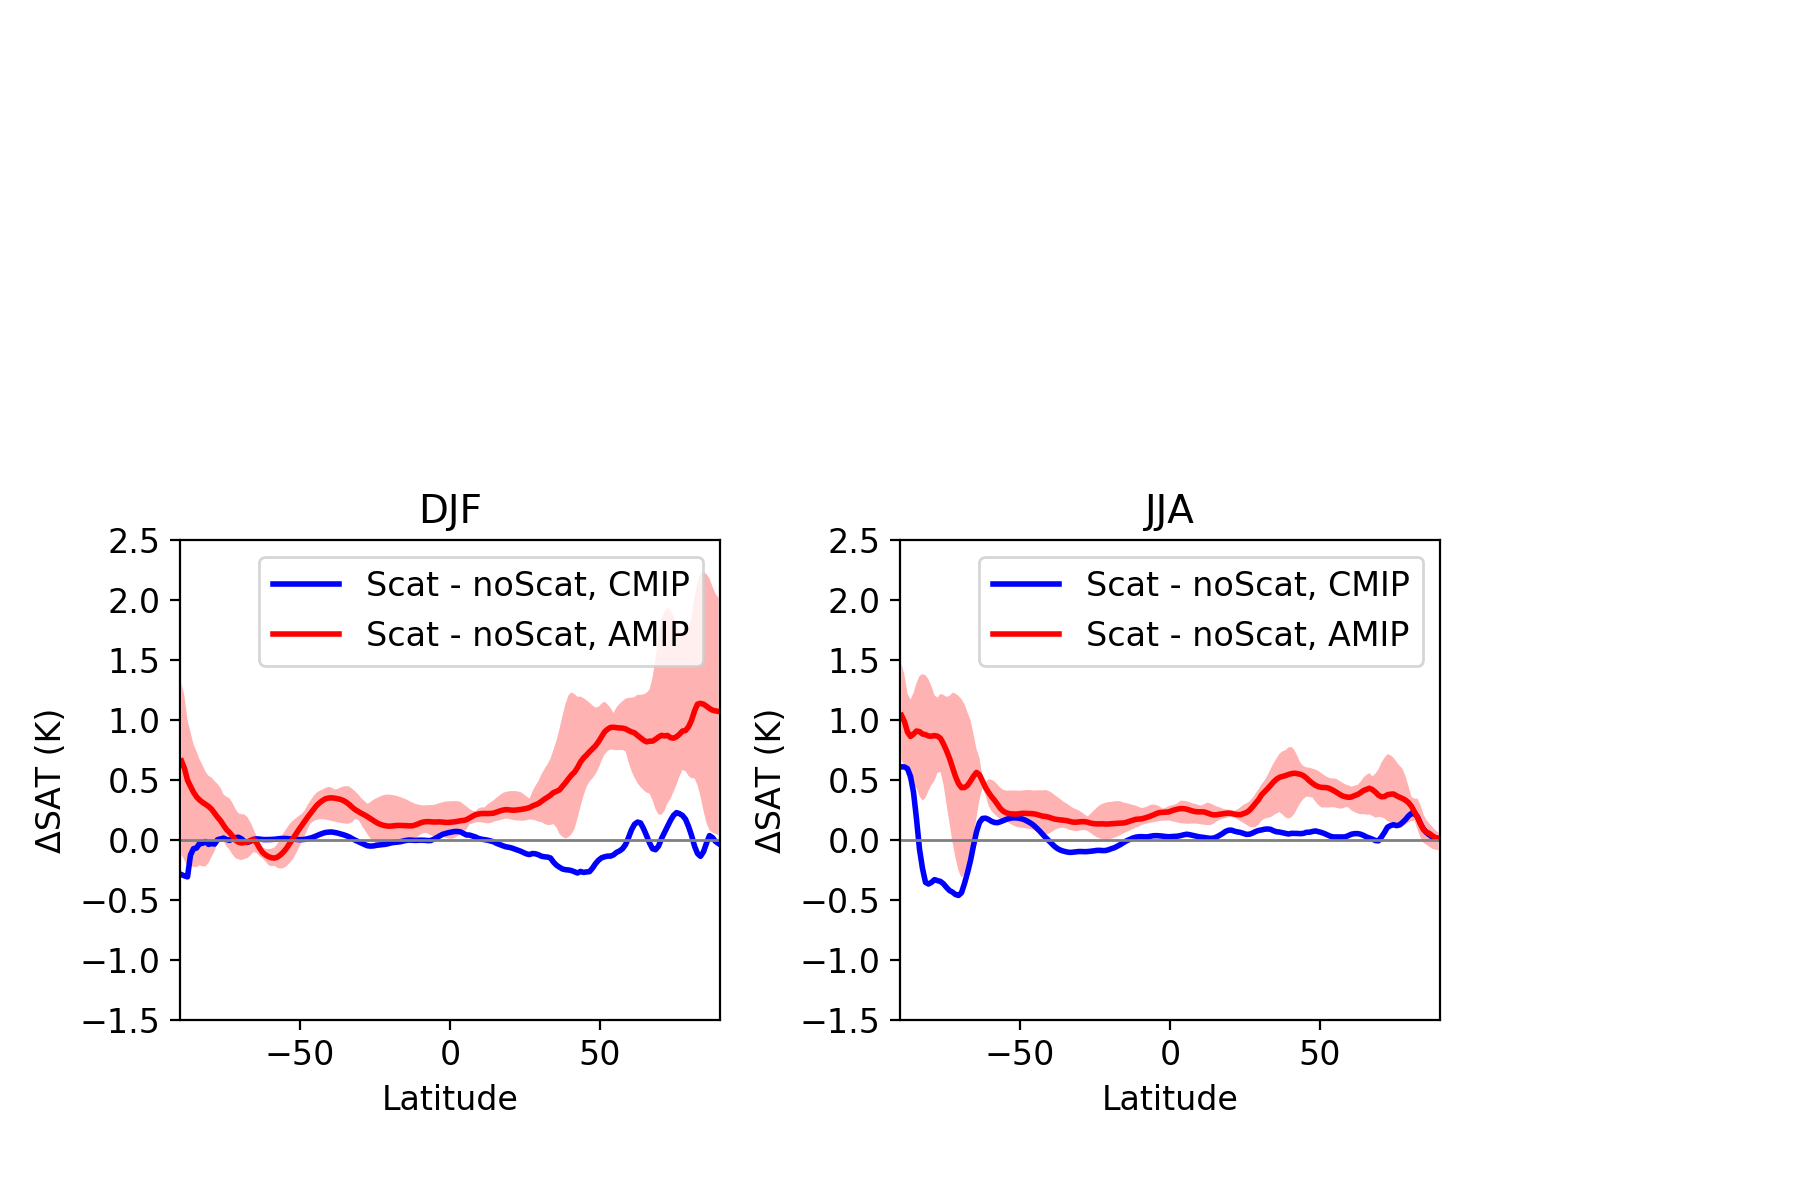
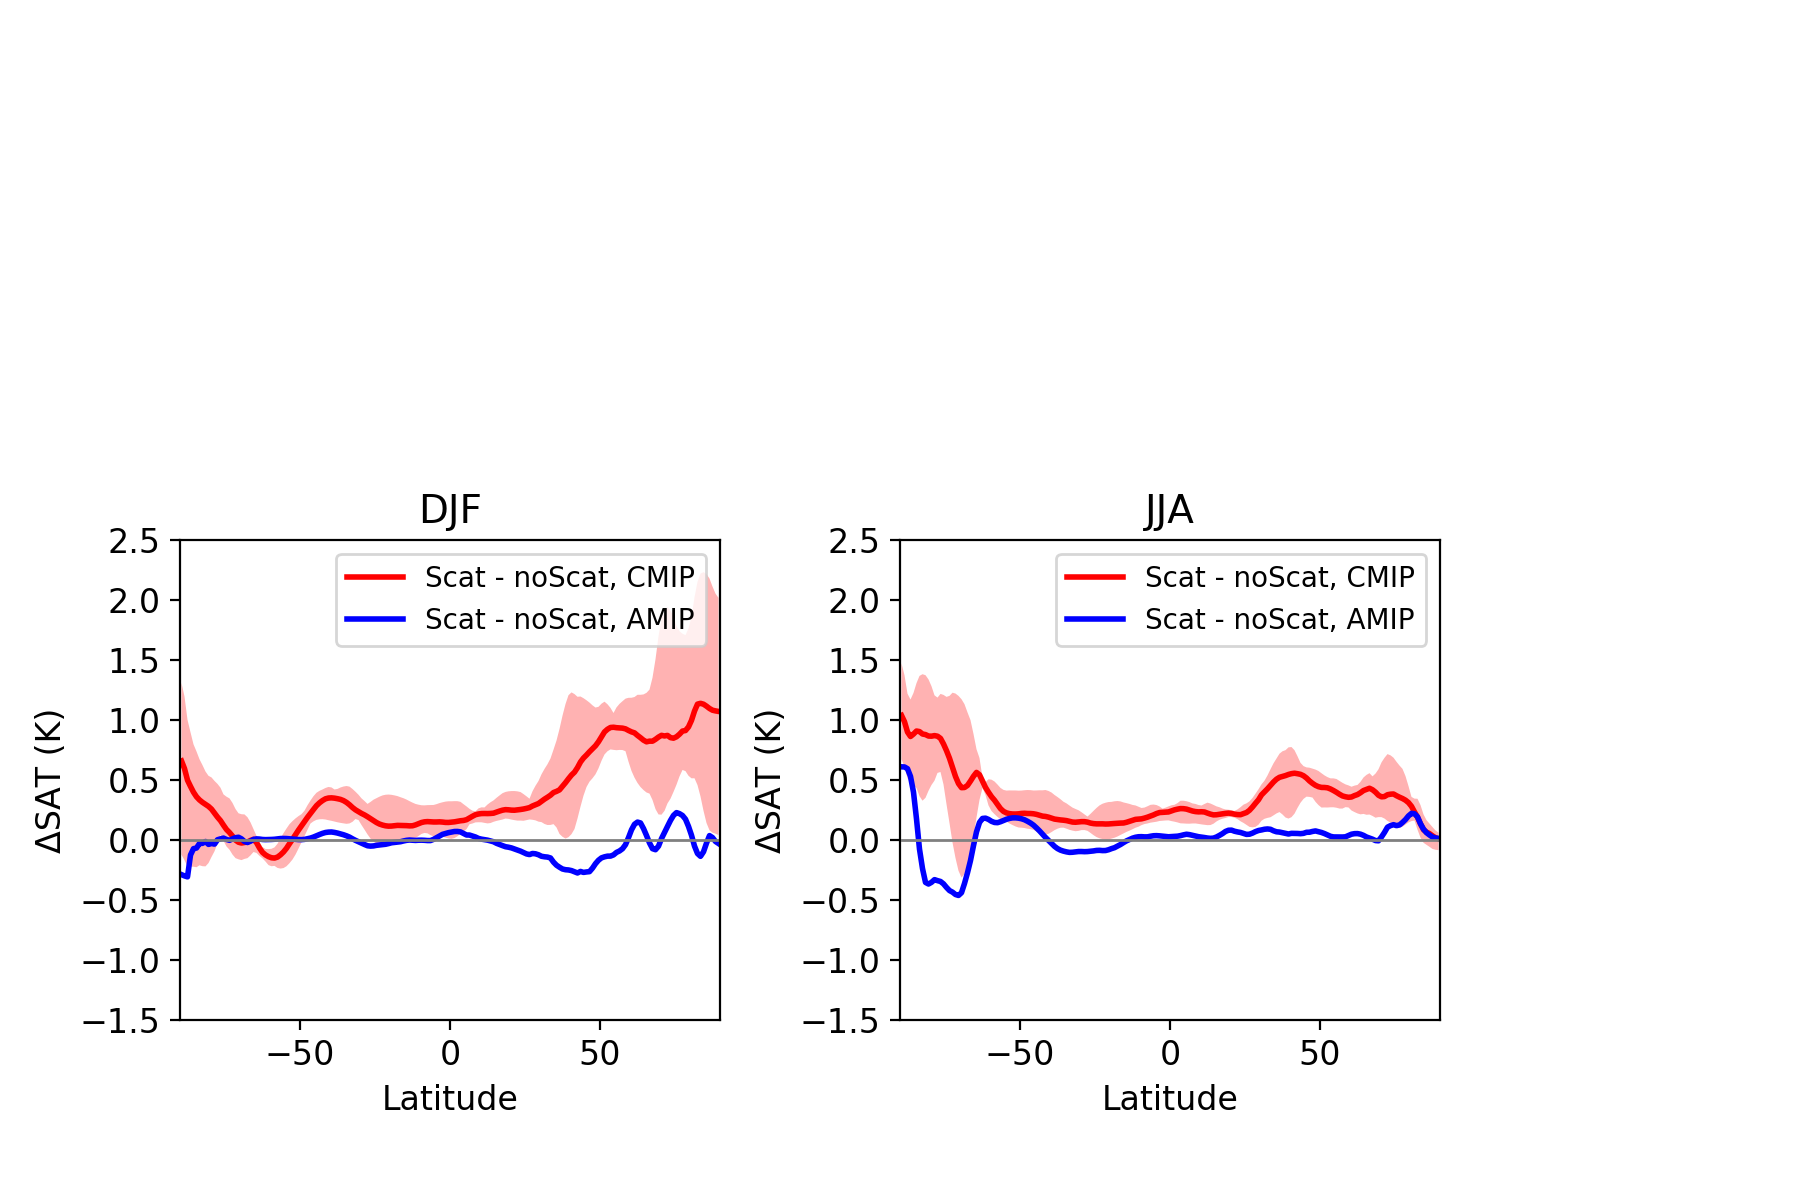
modify zm ens spread tair

Changed region(s): [[0.5289, 0.4625, 0.8089, 0.555], [0.1244, 0.4625, 0.4044, 0.555]]

diff --git a/d4_zonal_mean_model_vs_model_Tair_ens_spread.py b/d4_zonal_mean_model_vs_model_Tair_ens_spread.py
@@ -119,13 +119,13 @@ zeros=np.zeros((nlat))
 fig=plt.figure(figsize=(9,6))
 ax1=fig.add_axes([0.10,0.15,0.3,0.4])
 
-ax1.plot(lat[:],zm_tair_AMIP_diff_DJF[:],color="b",lw=2,ls="-",label="Scat - noScat, CMIP")
-ax1.plot(lat[:],zm_ensmean_tair_diff_DJF[:],color="r",lw=2,ls="-",label="Scat - noScat, AMIP")
+ax1.plot(lat[:],zm_ensmean_tair_diff_DJF[:],color="r",lw=2,ls="-",label="Scat - noScat, CMIP")
+ax1.plot(lat[:],zm_tair_AMIP_diff_DJF[:],color="b",lw=2,ls="-",label="Scat - noScat, AMIP")
 ax1.plot(lat[:],zeros[:],color="gray",lw=1,ls="-")
 ax1.fill_between(lat[:],zm_ensmin_tair_diff_DJF[:],zm_ensmax_tair_diff_DJF[:],facecolor='r', alpha=0.3)
 #ax1.plot(lat[:],means_exp[0,:],color="k",lw=2,ls=":",label="TSIS")
 #ax1.legend(loc="upper left",fontsize=12)
-ax1.legend(fontsize=12)
+ax1.legend(fontsize=10)
 ax1.set_title("DJF",fontsize=14)
 ax1.set_ylabel("\u0394SAT (K)",fontsize=12)
 ax1.set_xlabel("Latitude",fontsize=12)
@@ -135,11 +135,11 @@ plt.xticks(fontsize=12)
 plt.yticks(fontsize=12)
 
 ax2=fig.add_axes([0.5,0.15,0.3,0.4])
-ax2.plot(lat[:],zm_tair_AMIP_diff_JJA[:],color="b",lw=2,ls="-",label="Scat - noScat, CMIP")
-ax2.plot(lat[:],zm_ensmean_tair_diff_JJA[:],color="r",lw=2,ls="-",label="Scat - noScat, AMIP")
+ax2.plot(lat[:],zm_ensmean_tair_diff_JJA[:],color="r",lw=2,ls="-",label="Scat - noScat, CMIP")
+ax2.plot(lat[:],zm_tair_AMIP_diff_JJA[:],color="b",lw=2,ls="-",label="Scat - noScat, AMIP")
 ax2.plot(lat[:],zeros[:],color="gray",lw=1,ls="-")
 ax2.fill_between(lat[:],zm_ensmin_tair_diff_JJA[:],zm_ensmax_tair_diff_JJA[:],facecolor='r', alpha=0.3)
-ax2.legend(fontsize=12)
+ax2.legend(fontsize=10)
 
 ax2.set_title("JJA",fontsize=14) #+var_long_name,fontsize=12)
 ax2.set_ylabel("\u0394SAT (K)",fontsize=12)
